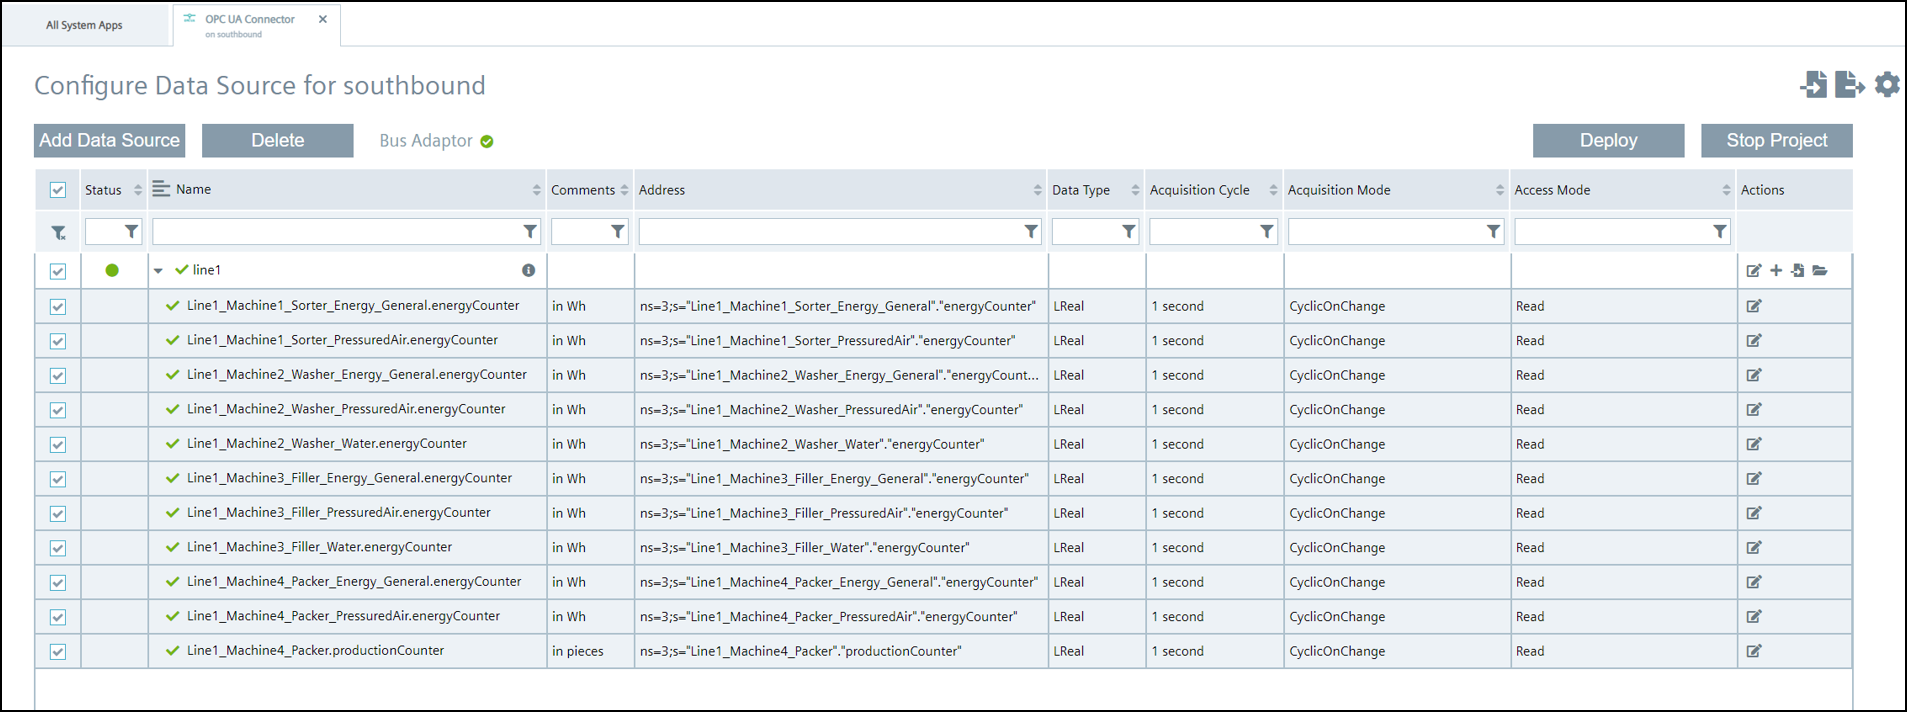
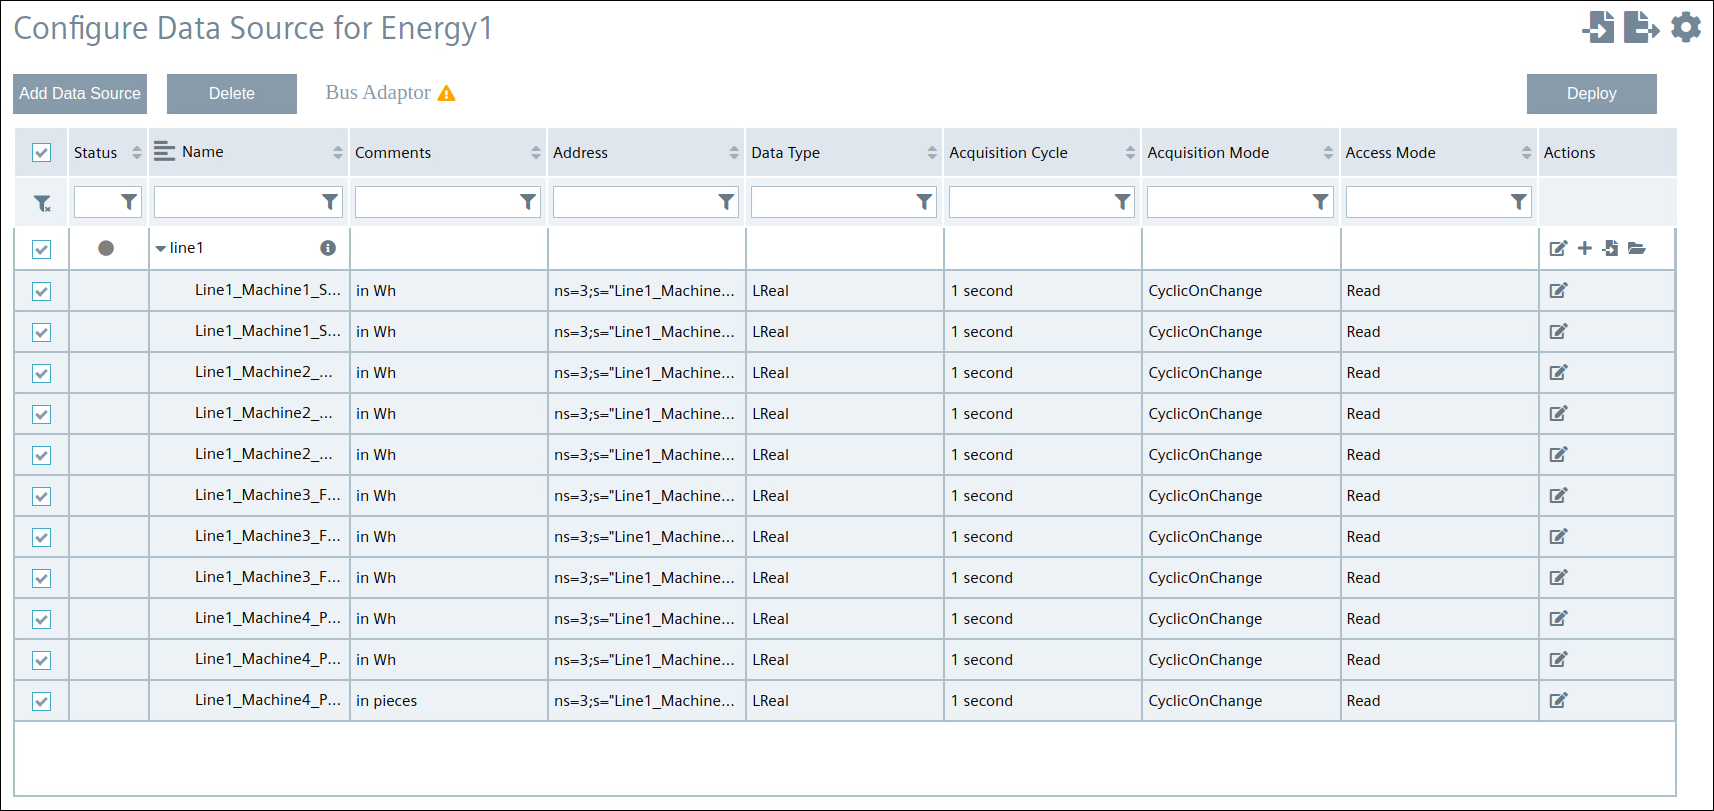
updated connectors to V2.0 and dataxess topics

diff --git a/docs/install_PLC_Devices_Southbound.md b/docs/install_PLC_Devices_Southbound.md
@@ -26,6 +26,8 @@ The Southbound consist of two devices. In the following they are called "Energy1
 
 Installed Apps on the Device Energy1 and Energy2: 
   - OPC UA Connector
+  - Common Import Converter
+  - Registry Service
   - IE Cloud Connector
   - Databus
   - IE Flow Creator
@@ -49,20 +51,20 @@ Instead of manually configuring you can also import the configuration files:
 
   ![ie_databus_user](graphics/IE_Databus_User.png)
 
-2. Deploy configuration to device
+1. Deploy configuration to device
 
   ![ie_databus](graphics/IE_Databus.png)
 
 
 ## OPC UA Connector
 
-To provide data from the PLC on the Databus connect the OPC UA Connector to the PLC and add the required PLC variables
+To provide data from the PLC on the Databus connect the OPC UA Connector to the PLC and add the required PLC variables. We will use the central configuration in the IEM.
 
 1. Launch the OPC UA Connector Configurator in the Industrial Edge Management under 'Data Connections' and configure the PLC connection 
-2. Import the JSON file [energy1_OPCUA_Connector](../src/Device_Energy1/energy1_OPCUA_Connector.json) for Energy1 and [energy2_OPCUA_Connector](../src/Device_Energy2/energy2_OPCUA_Connector.json) for Energy2 
-3. Adjust IP adress of the imported PLC connection
-4. Deploy and start your OPC UA Connector configuration
-
+2. Import the JSON file [Energy1_OPCUA_Connector](../src/Device_Energy1/Energy1_OPCUA_Connector.json) for Energy1 and [Energy2_OPCUA_Connector](../src/Device_Energy2/Energy2_OPCUA_Connector.json) for Energy2 
+3. Adjust IP address of the imported PLC connection
+4. Select the PLC and deploy the configuration
+   
   ![OPCUA_connector](graphics/OPCUA_Connector.png)
 
 ## IE Flow Creator

diff --git a/README.md b/README.md
@@ -69,9 +69,10 @@ TIA & PLCs:
 Industrial Edge:
 - Industrial Edge Management V1.7.4
 - Industrial Edge Device V1.5.0-21-amd64
-- OPC UA Connector V1.7.0-15
-- Databus V2.0.0
-- External Databus V2.0.0
+- OPC UA Connector V2.0.0
+- Registry Service V1.8.0
+- Common Import Converter V2.0.0
+- Databus V2.2.0
 - Data Service V1.6.0
 - IE Flow Creator V1.3.9
 - Energy Manager V1.2.0
@@ -91,6 +92,8 @@ You can find the further information about the following steps in the [docs](doc
 - Configure PLC project in TIA-Portal
 - Configure PLC connections in Industrial Edge
   - OPC UA Connector
+  - Common Import Converter
+  - Registry Service
   - Databus 
 - Configure Data preprocessing 
   - IE Flow Creator 
